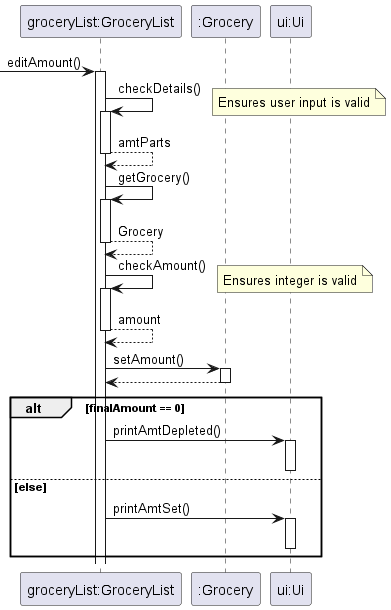
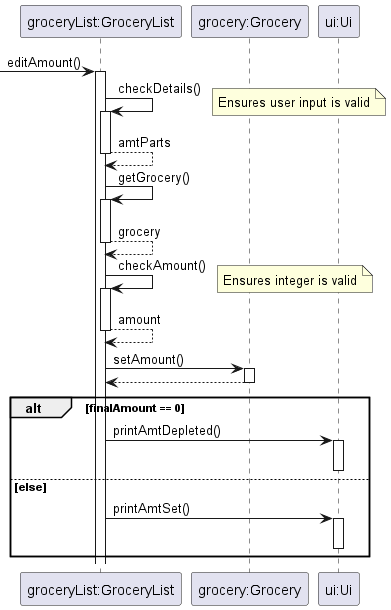
Update Dev Guide with editLocation

diff --git a/docs/DeveloperGuide.md b/docs/DeveloperGuide.md
@@ -23,6 +23,7 @@
     - [9. View a list of groceries low in stock](#9-view-a-list-of-groceries-low-in-stock)
     - [10. Input expiration date of each grocery when added](#10-input-expiration-date-of-each-grocery-when-added)
     - [11. Editing expiration date after it is added](#11-editing-expiration-date-after-it-is-added)
+    - [12. Storing a grocery in a storage location](#12-storing-a-grocery-in-a-storage-location)
 - [Product Scope](#product-scope)
   - [Target user profile](#target-user-profile)
   - [Target user profile](#value-proposition)
@@ -177,7 +178,7 @@ To list groceries according to different parameters, view help, switch modes, or
 ### 6. Edit grocery amount
    * A `Grocery` stores its `amount` as an attribute. All `Grocery` objects are then stored in an ArrayList in `GroceryList`, which entirely handles the editing of the `amount`.
 
-![Grocery (showing amount) and GroceryList class diagram](./diagrams/GroceryAmt.png)
+![Class diagram for editAmount](./diagrams/GroceryAmt.png)
 
    * `GroceryList+editAmount()` is used to either decrease or directly set the `amount` of a `Grocery`. It takes in 2 parameters:
       1. details: String — User input read from `Scanner`.
@@ -186,7 +187,7 @@ To list groceries according to different parameters, view help, switch modes, or
    * To edit the `amount` after using a `Grocery`, the user inputs `use GROCERY a/AMOUNT`.
    * Our app then executes `GroceryList+editAmount()` with parameter `use = false` or `true` respectively, as illustrated by the following sequence diagram.
 
-![useAmt sequence diagram](./diagrams/useAmt.png)
+![editAmount sequence diagram](./diagrams/useAmt.png)
 
   * Additional checks specific to `use` ensure that the user only inputs a valid `int`, or that the `amount` must not be 0 beforehand.
   * Any exceptions thrown come with a message to help the user remedy their specific issue, as displayed by the `Ui`.
@@ -219,7 +220,24 @@ To list groceries according to different parameters, view help, switch modes, or
    * In GroceryList class, modified the editExpiration method to parse String into LocalDate.
     * `GroceryList+editExpiration()` is used to directly set the `exp` of a `Grocery`. It takes in 1 parameter:
       1. details: String — User input read from `Scanner`.
-   * To edit the `exp` after using a `Grocery`, the user inputs `use GROCERY d/EXPIRATION_DATE`. 
+   * To edit the `exp` after using a `Grocery`, the user inputs `use GROCERY d/EXPIRATION_DATE`.
+
+### 12. Storing a grocery in a storage location
+* A `Grocery` stores its location by referencing a `Location` object. All `Locations` are stored in a `LocationList` class.
+    
+![Class diagram for editLocation](./diagrams/GroceryLocation.png)
+    
+* `GroceryList+editLocation()` handles the editing of a grocery's location.
+  1. If the grocery is not stored anywhere, its `Location` will be set.
+  2. If the grocery is to be stored in a different location, its `Location` will be changed.
+*  This method takes in 1 parameter:
+    1. details: String — User input read from `Scanner`.
+* The user enters `store GROCERY l/LOCATION` to store the grocery in the desired location. Our app then executes `GroceryList+editLocation()`, as illustrated by the following sequence diagram.
+    
+![editLocation sequence diagram](./diagrams/editLocation.png)
+
+* If the target `Location` does not exist, our app automatically creates it and stores the grocery there.
+* If the target `Location` is the same as the current `Location`, our app throws a `SameLocationException()`, informing the user of this error.
 
 
 &nbsp;
@@ -237,7 +255,7 @@ Users are able to edit and manage the category, amount, expiration date, and sto
 When groceries are running low, the app can generate a shopping list to remind users of what they need to buy.
 Furthermore, the app can generate a list of items that are expiring soon, reminding users to consume their groceries as soon as possible.
 
-GiT also comes with other modes for recipe management and calorie tracking.
+GiT also comes with other modes for recipe management and calorie tr acking.
 
 ## User Stories
 

diff --git a/docs/team/wallywallywally.md b/docs/team/wallywallywally.md
@@ -38,9 +38,9 @@ It allows users to track and manage their groceries around their home easily.
 
 2. #### Developer Guide
    - Design and implementation details
-     - For features `amt` and `use`, along with a sequence diagram
+     - For features `amt`/`use` and `store`
      - Class diagram for `Grocery`, `GroceryList`, `Location`, `LocationList`
-     - Sequence diagram for `handleLocationCommands`
+     - Sequence diagram for `handleLocationCommands`, `editAmount`, `editLocation`
    - Product scope
      - Target user profile, Value proposition, User stories
    - General information

diff --git a/docs/README.md b/docs/README.md
@@ -1,5 +1,7 @@
 # Grocery in Time
 
+![Grocery in Time logo](images/GitStartup.png)
+
 Grocery in Time (GiT) is a **grocery tracker app**, optimised for use via a Command Line Interface (CLI).
 It allows users to track and manage their groceries around their home easily.
 

diff --git a/docs/UserGuide.md b/docs/UserGuide.md
@@ -2,7 +2,6 @@
 
 ![Grocery in Time logo](images/GitStartup.png)
 
-
 ## Introduction
 
 Grocery in Time (GiT) is a **grocery tracker app**, optimised for use via a Command Line Interface (CLI).
